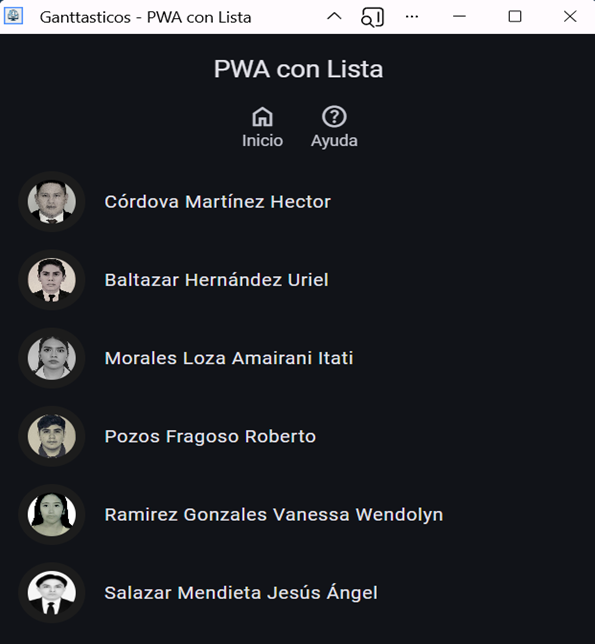
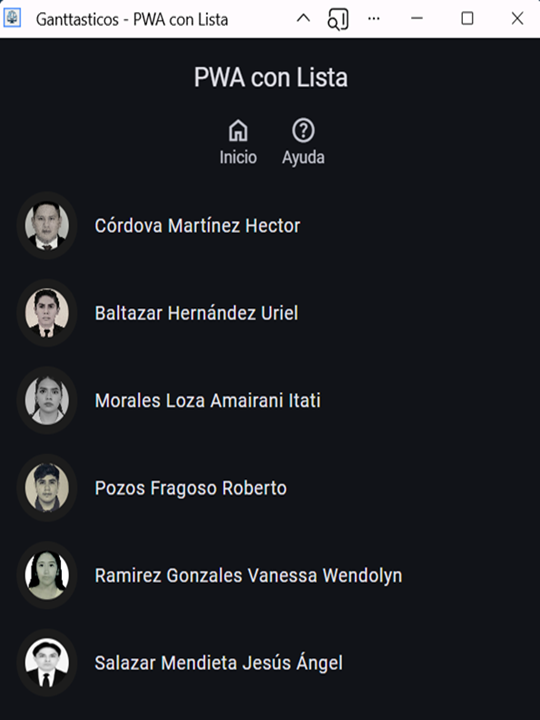
Nueva version 1.18 Tamaño Nuevo de Screenshots

diff --git a/ayuda.html b/ayuda.html
@@ -89,12 +89,6 @@
   <span class="headline">Salazar Mendieta Jesús Ángel</span>
 </li>
 
-<li class="md-two-line">
-  <span class="headline">Derechos de autor</span>
-  <span class="supporting">© 2026 Equipo Ganttasticos</span>
-</li>
-
-
  <!-- COPYRIGHT -->
  <li class="md-two-line">
   <span class="headline">

diff --git a/sw.js b/sw.js
@@ -15,7 +15,7 @@
  * conoce como número menor y se cambia cuando se realizan
  * modificaciones menores.
  */
-const VERSION = "1.17"
+const VERSION = "1.18"
 
 /**
  * Nombre de la carpeta de caché.
